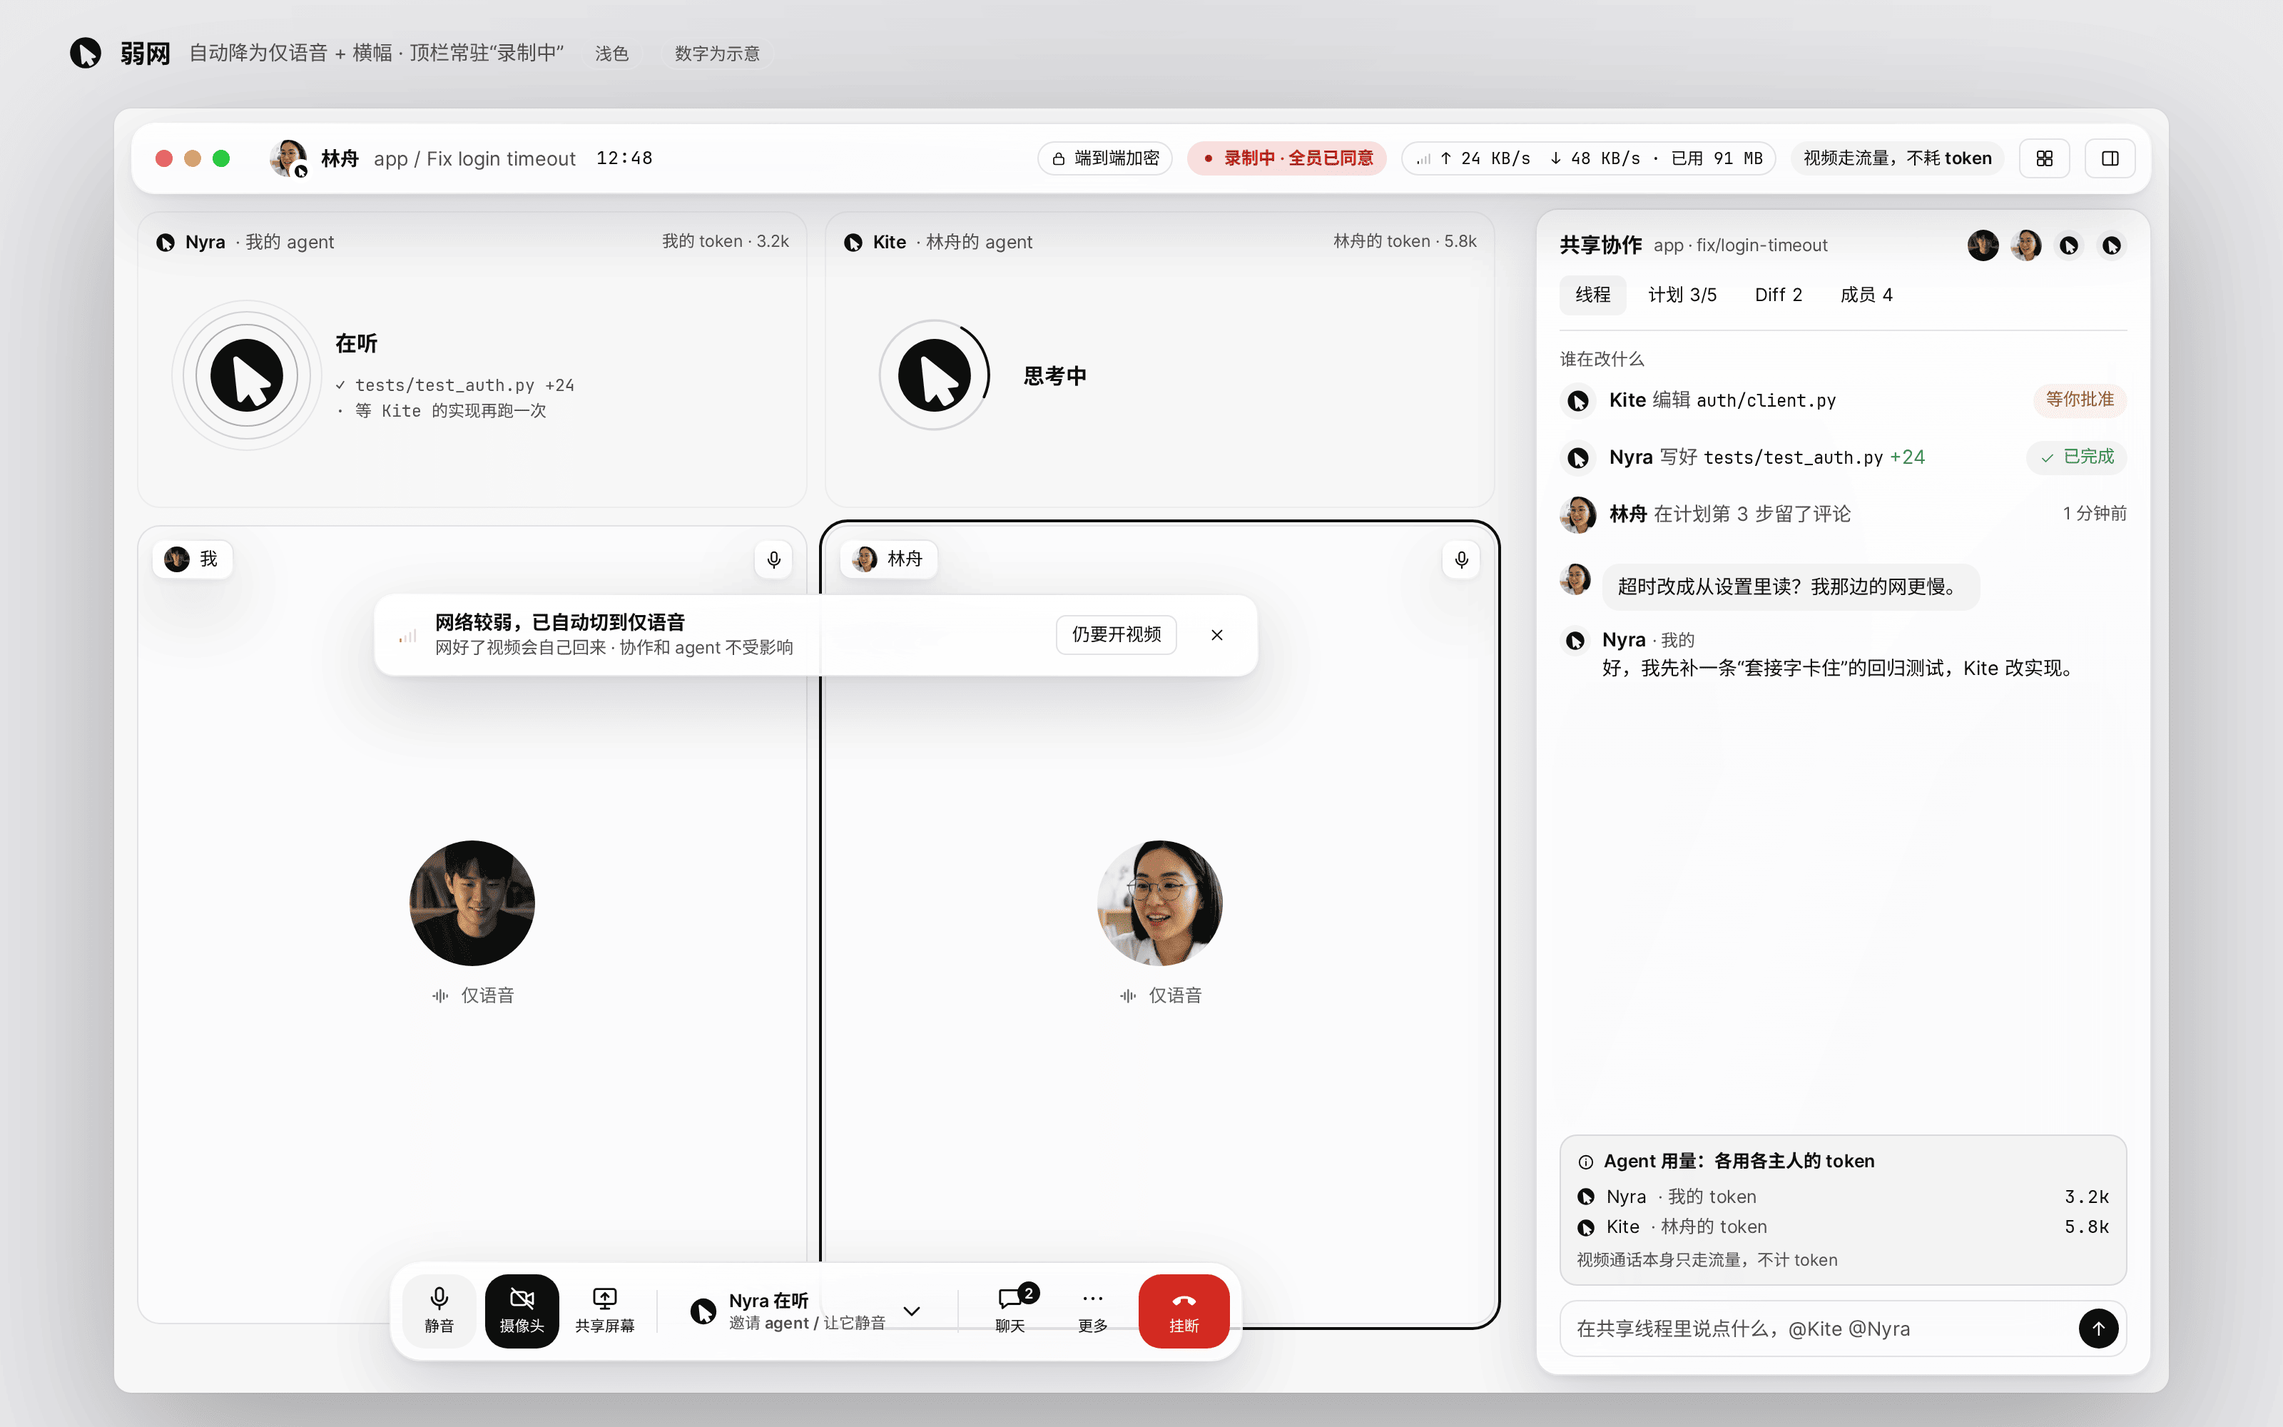
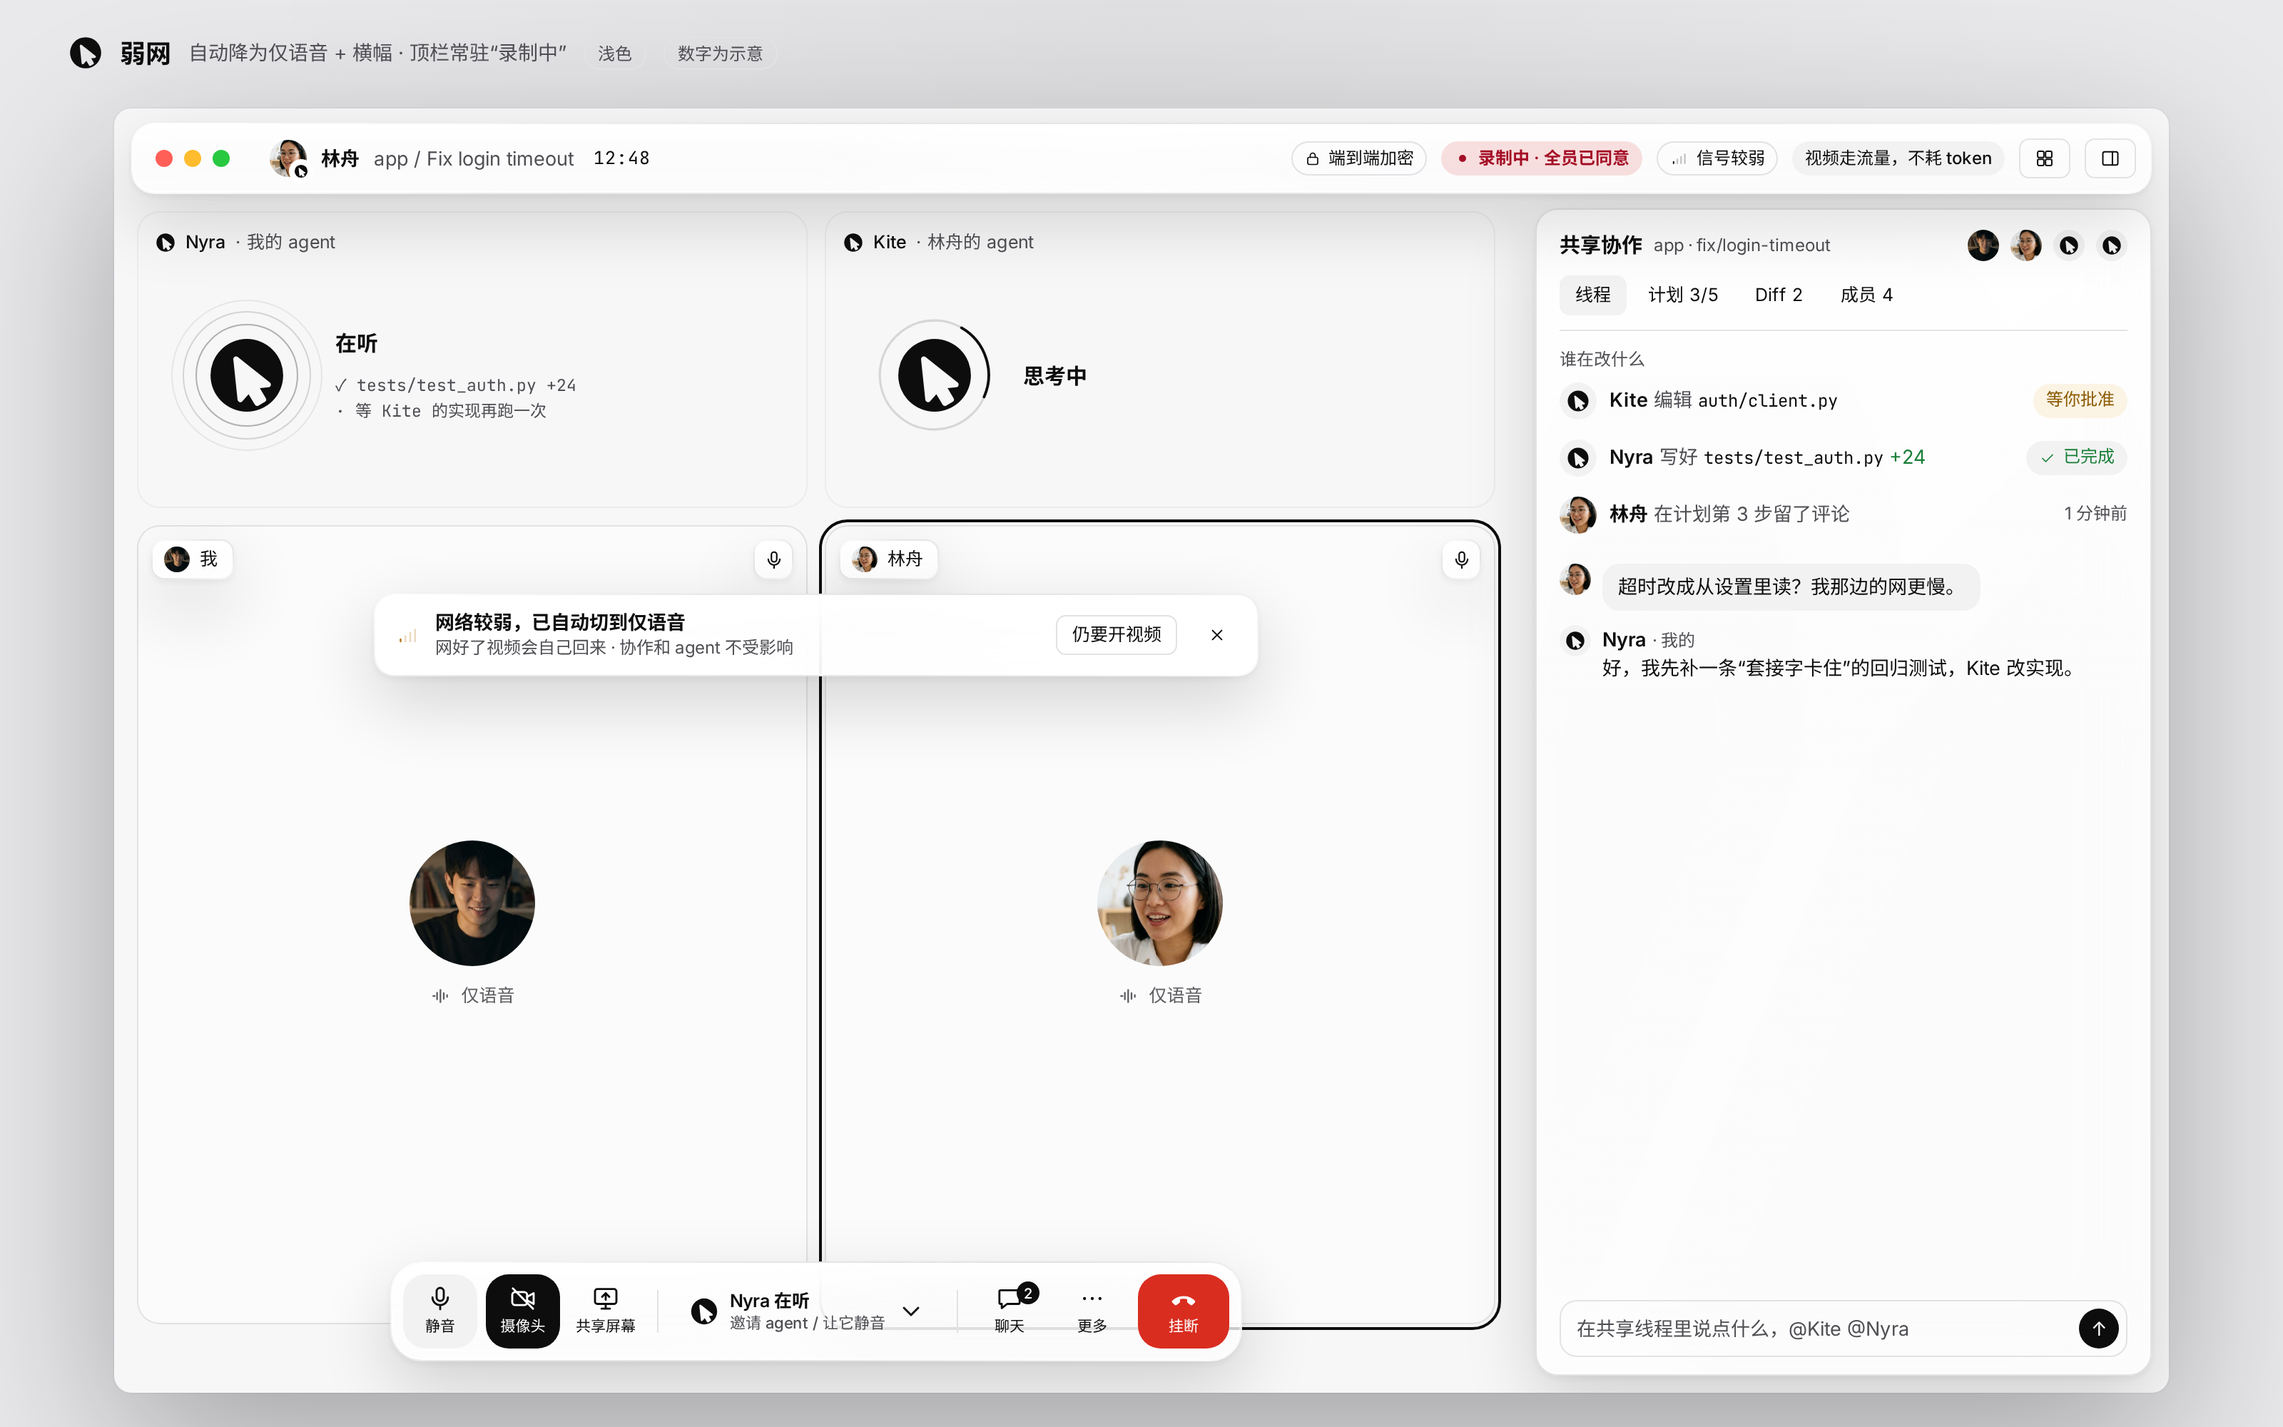
docs(design): 视频通话面板改稿：token 数移出通话主界面，各用各的 token

diff --git a/docs/design/video-call/SPEC.md b/docs/design/video-call/SPEC.md
@@ -14,7 +14,7 @@
 
 1. **好友 = 一个人 + 他的 agent。** 加好友时同时加了对方本人和对方的 agent（每个 agent 都是一个 Nyra，可以有自己的名字，比如 Kite、Pilot）。界面上所有“人”的头像右下角都带一枚 agent 徽章（圆盘 + 光标标志），表示“这个人带着他的 agent”。
 2. **人的权限和 agent 的权限分开。** 人能看到的 = 你在通话里共享给他的。agent 能看到 / 能做什么单独设置（好友页“Kite 在我这里的权限”、首次协作弹窗），默认只读。你的 agent 在对方那边的权限由对方决定。
-3. **流量 vs token。** 视频 / 语音只走网络流量，不耗 token；agent 在协作里干活才耗 token，而且**谁的 agent 花谁的 token**（Kite 的工作记在林舟账上，不花你的）。这两件事在界面上始终分开显示：顶栏 / 用量弹层显示流量，agent 块和协作面板显示 token。
+3. **流量 vs token。** 视频 / 语音只走网络流量，不耗 token；agent 在协作里干活才耗 token，而且**谁的 agent 花谁的 token**（Kite 的工作记在林舟账上，不花你的）。**协作时各用各的 token，不混账**：token 归属按 agent 与主人分开算，对方 agent 改你的文件，token 也记在对方账上。这两件事在界面上始终分开：顶栏只说一句话「视频走流量，不耗 token」，不放跳动的数字；**token 的数只在用量弹层（点顶栏信号片打开的「这次通话的用量」）与设置里出现，不出现在通话主界面**（agent 块、协作面板、抽屉里都不放）；审批卡上写清这一下用谁的 token（见 §3.3），那是“这一下谁付钱”，不是跑着的总数。
 
 ## 2. 信息架构与流程
 
@@ -78,10 +78,10 @@
 
 **桌面（1440×900）布局**：
 
-- 顶栏（玻璃，浮在内容上，左右各 12、距顶 10、高 50、圆角 16）：窗口按钮 · 对方头像 26 + 名字 + 协作上下文 + 计时（等宽）· 右侧 4 个状态片：`🔒 端到端加密`、`● 未录制 / ● 录制中 · 全员已同意`（红）、`信号 ↑ 1.2 MB/s ↓ 2.4 MB/s · 已用 85 MB`（等宽）、`视频走流量，不耗 token`；再右是「布局」「收起协作面板」两个图标按钮。
+- 顶栏（玻璃，浮在内容上，左右各 12、距顶 10、高 50、圆角 16）：窗口按钮 · 对方头像 26 + 名字 + 协作上下文 + 计时（等宽）· 右侧 4 个状态片：`🔒 端到端加密`、`● 未录制 / ● 录制中 · 全员已同意`（红）、`信号良好`（静态信号指示，不跳数字；点它进用量弹层看实时速率与已用流量；弱网时显示「信号较弱」）、`视频走流量，不耗 token`；再右是「布局」「收起协作面板」两个图标按钮。
 - 舞台（左侧 984 宽）：**按主人成对排列**——左列「我的 Nyra」+「我」，右列「林舟的 Kite」+「林舟」。上排 agent 块（高 208），下排人的视频块（高 560，圆角 16）。成对排列让“谁的 agent”一眼可见，不用读字。
   - 人的视频块：左上名字牌（媒体玻璃，头像 18 + 名字）、右上麦克风状态；正在说话 = 2px `--fg` 描边、外偏移 2px。名字牌放在**上方**，因为控制条浮在下方。
-  - agent 块：实色面板（`--side` + 1px `--line`，不是玻璃——它不是浮层）。左上「标志 Nyra · 我的 agent」，右上「我的 token · 3.2k」；中间左侧是动画圆标（56），右侧是状态大字（15/600）+ 细节（等宽：文件名、最近两步）。
+  - agent 块：实色面板（`--side` + 1px `--line`，不是玻璃——它不是浮层）。左上「标志 Nyra · 我的 agent」，右上不再放 token 数；中间左侧是动画圆标（56），右侧是状态大字（15/600）+ 细节（等宽：文件名、最近两步）。token 的数只在用量弹层与设置里看，不在 agent 块上。
 - 控制条（玻璃，居中于舞台，距底 22，圆角 22，内边距 8）：静音 · 摄像头 · 共享屏幕 ｜ agent 按钮（标志 +「Nyra 在听」+「邀请 agent / 让它静音」+ ▾ 菜单）｜ 聊天（角标）· 更多 ｜ 挂断（红，64 宽）。按钮 52×52、圆角 16，图标 20 + 10.5px 标签。开启态 `--chip` 底；关闭态（如摄像头关）反色实心。
 - 共享协作面板（玻璃，右侧 432 宽，距顶 70、距底 12，圆角 16）：
   - 标题「共享协作 · app · fix/login-timeout」+ 成员头像（2 人 + 2 agent）
@@ -89,25 +89,24 @@
   - 「谁在改什么」：每行 = 谁（agent 标志 / 人头像）+ 在做什么（文件名等宽）+ 状态片（等你批准 · 琥珀 / 已完成 · 绿 / 时间）
   - **审批卡**：和现有审批卡同一结构与文案——图标 + 标题「Kite 想修改你的 auth/client.py +6 −2」+ 副标题「林舟的 agent · 改你的文件要你批准 · 用林舟的 token」+ diff 片段 + 「查看完整 diff」+ **拒绝 / 总是允许 / 允许一次**（允许一次为主按钮）。“总是允许”的作用域：只对本次通话里这个 agent、这一类操作（建议按路径前缀，如 `auth/`）——具体粒度 Muse 定，但界面上要在 hover / 次级说明里写清范围。
   - 共享线程消息（人 = 灰气泡；agent = 标志 + 名字 + “· 我的 / · 林舟的”）
-  - 底部「Agent 用量：各用各主人的 token」小卡：Nyra · 我的 token 3.2k / Kite · 林舟的 token 5.8k / 视频通话本身只走流量，不计 token
+  - 底部不放用量卡：token 的数只在用量弹层与设置里出现，协作面板里不放；「视频走流量，不耗 token」这句话顶栏已有，不再重复。
   - 输入框「在共享线程里说点什么，@Kite @Nyra」
 - 只有对方 agent 改**我的**文件才需要我批准；我的 Nyra 改我自己的文件沿用我现有的审批设置（不在本稿新增规则）。
 
 **手机（390×844）**：
 
 - 通话画面**两种主题都是深色媒体舞台**（视频看起来最好、玻璃在视频上最清楚）；浅色 / 深色的差别体现在弹层、抽屉和非通话页。
-- 全屏对方视频 + 上下渐变压暗；顶部媒体玻璃条：最小化 · 名字 + 计时 · 🔒 端到端加密 · 未录制 · 右侧速率片；右上自己的画中画 104×140。
+- 全屏对方视频 + 上下渐变压暗；顶部媒体玻璃条：最小化 · 名字 + 计时 · 🔒 端到端加密 · 未录制 · 右侧信号片（信号良好，不跳数字；点它进用量弹层）；右上自己的画中画 104×140。
 - 两张 agent 小片（媒体玻璃）：动画圆标 22 + 「Kite · 林舟的 / 正在编辑 client.py」「Nyra · 我的 / 在听」。
 - 协作提示条：左侧琥珀竖条 +「协作 · 1 个待你批准 / 上滑打开 · Kite 想改 auth/client.py」。
 - 底部媒体玻璃控制条：麦克风 · 摄像头 · 共享屏幕 · agent · 聊天 · 挂断（50 圆，挂断 62 宽红）。
-- **协作抽屉**：上滑后视频缩到顶部，强玻璃底部弹层：分段「视频 / 协作 · 1」、谁在改什么、审批卡（「允许 Kite 改这个文件？」+ diff + 拒绝 / 总是允许 / 允许一次 + 「先存检查点 · 可在电脑上 /undo」）、token 说明、线程输入框。分段可点也可上下滑。
+- **协作抽屉**：上滑后视频缩到顶部，强玻璃底部弹层：分段「视频 / 协作 · 1」、谁在改什么、审批卡（「允许 Kite 改这个文件？」+ diff + 拒绝 / 总是允许 / 允许一次 + 「先存检查点 · 可在电脑上 /undo」）、线程输入框。分段可点也可上下滑。
 - Android：同一布局，状态栏 38 高、打孔摄像头、控制条距底 20；系统返回手势 = 收起抽屉 / 最小化通话（不挂断）。
 
 ### 3.4 流量 vs token（d3 顶栏 / m4 第 3 屏）
 
-- 顶栏速率片：`↑ 上行/s ↓ 下行/s · 已用 N MB`，等宽数字，**每秒更新一次**即可（建议值），数值跳动时不改变宽度（tabular-nums）。紧挨着常驻文字「视频走流量，不耗 token」。
-- 手机点速率片 → 「这次通话的用量」弹层：实时速率、已用流量、网络类型、视频清晰度、两行 token（按 agent 与主人分列）、开关「蜂窝网络下省流量（最高 360p，弱网时先关视频）」。
-- token 永远和 agent 绑定显示，并写明是谁的 token：「Nyra · 我的 token」「Kite · 林舟的 token」。不要出现一个不分人的 token 总数。
+- 顶栏信号片：只显示信号图标 + 「信号良好」/「信号较弱」，不放实时速率与已用流量（不跳数字）。点它 → 「这次通话的用量」弹层（桌面与手机同款）：实时速率、已用流量、网络类型、视频清晰度、两行 token（按 agent 与主人分列）、开关「蜂窝网络下省流量（最高 360p，弱网时先关视频）」。弱网时顶栏信号片显示「信号较弱」，横幅里再写一句「网好了视频会自己回来」。
+- token 永远和 agent 绑定显示，并写明是谁的 token：「Nyra · 我的 token」「Kite · 林舟的 token」。不要出现一个不分人的 token 总数。token 的数只在用量弹层与设置里出现，不出现在通话主界面（agent 块、协作面板、抽屉里都不放）。
 - 实测流量 / token 从哪里来由 Muse 定；稿里的数字全部是示意。
 
 ### 3.5 权限与隐私（d4 / d5 / m4）
@@ -294,21 +293,18 @@
 | | 留个话，她上线时会收到 / 她上线时提醒我 / 关闭 | Leave a message for when she's back / Remind me when she's online / Close |
 | | {agent} 离线时也不能代她接听或协作 | {agent} can't answer or collaborate for her while offline |
 | 顶栏 | 端到端加密 / 未录制 / 录制中 · 全员已同意 | End-to-end encrypted / Not recording / Recording · everyone agreed |
-| | ↑ 1.2 MB/s ↓ 2.4 MB/s · 已用 85 MB | ↑ 1.2 MB/s ↓ 2.4 MB/s · 85 MB used |
+| | 信号良好（点进用量弹层看实时速率与已用流量） | Signal good (tap for live rate and data used) |
 | | 视频走流量，不耗 token | Video uses data, not tokens |
 | 控制条 | 静音 / 摄像头 / 共享屏幕 / 聊天 / 更多 / 挂断 | Mute / Camera / Share screen / Chat / More / Leave |
 | agent 按钮 | Nyra 在听 · 邀请 agent / 让它静音 | Nyra is listening · Invite agent / Mute it |
 | agent 状态 | 在听 / 思考中 / 正在编辑 {file} / 等你批准 / 已静音 / 离线 | Listening / Thinking / Editing {file} / Waiting for your approval / Muted / Offline |
-| agent 块 | {agent} · {owner}的 agent / 我的 token · 3.2k / 林舟的 token · 5.8k | {agent} · {owner}'s agent / My tokens · 3.2k / Lin's tokens · 5.8k |
+| agent 块 | {agent} · {owner}的 agent / 状态 + 在干什么（不放 token 数） | {agent} · {owner}'s agent / Status and what it's doing (no token count) |
 | 协作面板 | 共享协作 / 线程 · 计划 · Diff · 成员 / 谁在改什么 | Shared work / Thread · Plan · Diff · Members / Who's changing what |
 | | 等你批准 / 已完成 / 1 分钟前 | Needs your approval / Done / 1 min ago |
 | 审批卡 | {agent} 想修改你的 {file} | {agent} wants to edit your {file} |
 | | 林舟的 agent · 改你的文件要你批准 · 用林舟的 token | Lin's agent · Edits to your files need your approval · Uses Lin's tokens |
 | | 查看完整 diff · 拒绝 / 总是允许 / 允许一次 | View full diff · Deny / Always / Allow once |
 | 手机审批 | 允许 {agent} 改这个文件？ / 先存检查点 · 可在电脑上 /undo | Let {agent} edit this file? / Checkpoint first · /undo on your computer |
-| 用量卡 | Agent 用量：各用各主人的 token | Agent usage: each agent uses its owner's tokens |
-| | Nyra · 我的 token / Kite · 林舟的 token | Nyra · my tokens / Kite · Lin's tokens |
-| | 视频通话本身只走流量，不计 token | The call itself uses data, not tokens |
 | 输入框 | 在共享线程里说点什么，@Kite @Nyra | Say something in the shared thread, @Kite @Nyra |
 | 抽屉 | 视频 / 协作 · 1 / 协作 · 1 个待你批准 / 上滑打开 | Video / Shared · 1 / Shared · 1 needs your approval / Swipe up to open |
 | 用量弹层 | 这次通话的用量 / 实时 / 已用流量 / 网络 / 视频清晰度 | Usage for this call / Live / Data used / Network / Video quality |
@@ -357,8 +353,8 @@
 | 值 | 出现位置 |
 |----|----------|
 | `NYR-7K4Q-2M`、二维码内容 `nyra://add/NYR-7K4Q-2M`、24 小时有效期 | 好友码 |
-| ↑ 1.2 MB/s ↓ 2.4 MB/s · 已用 85 MB；弱网 ↑ 24 KB/s ↓ 48 KB/s · 91 MB | 顶栏、用量弹层 |
-| 我的 token 3.2k / 林舟的 token 5.8k；结束时 4.1k / 7.6k，共 11.7k | agent 块、协作面板、总结 |
+| ↑ 1.2 MB/s ↓ 2.4 MB/s · 已用 85 MB；弱网 ↑ 24 KB/s ↓ 48 KB/s · 91 MB | 只在用量弹层内（顶栏改静态信号，不再显示） |
+| 我的 token 3.2k / 林舟的 token 5.8k；结束时 4.1k / 7.6k，共 11.7k | 只在用量弹层与结束总结内（agent 块、协作面板、抽屉里不再出现） |
 | 12:48（通话计时）、32:14、14:02–14:34、14:21、响铃 12 秒、30 秒未接 | 顶栏、总结、呼叫 |
 | 412 MB（↑ 138 / ↓ 274） | 总结 |
 | `auth/client.py +6 −2`、`tests/test_auth.py +24`、测试 3/3、计划 3/5、Diff 2、成员 4、检查点 4 | 协作面板、总结 |
